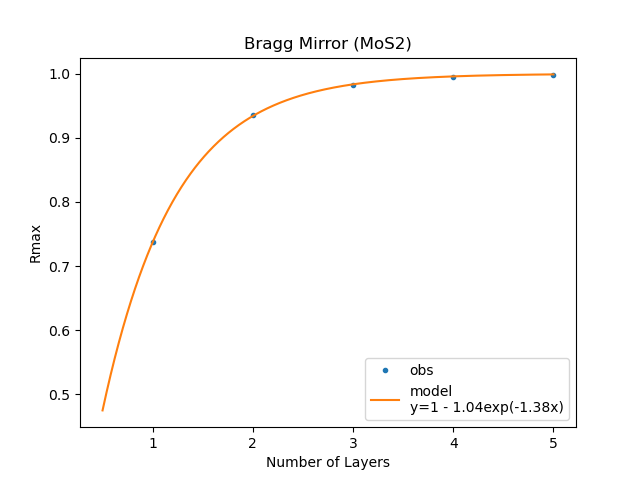
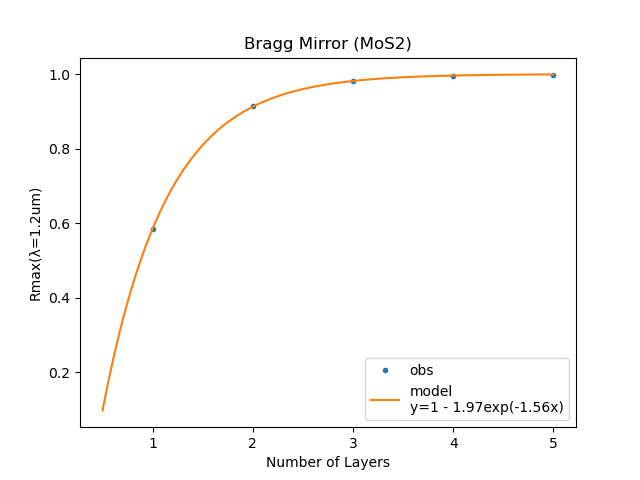
fitting修正、コード整理

diff --git a/CylindricalShell/MoS2/Analyze_CylindricalShell_5Layer_MoS2_exp.py b/CylindricalShell/MoS2/Analyze_CylindricalShell_5Layer_MoS2_exp.py
@@ -16,32 +16,26 @@ D1 = np.loadtxt("CylindricalShell_5Layer_MoS2_radius0.5um.txt", delimiter=",", s
 lam = D1[:,0] * 1e9 #wavelength[nm]
 T1 = D1[:, 1]
 R1 = -T1
-Rm1 = np.max(R1)
 
 rad2 = 1.0
 D2 = np.loadtxt("CylindricalShell_5Layer_MoS2_radius1.0um.txt", delimiter=",", skiprows=3)
 T2 = D2[:, 1]
 R2 = -T2
-Rm2 = np.max(R2)
 
 rad3 = 1.5
 D3 = np.loadtxt("CylindricalShell_5Layer_MoS2_radius1.5um.txt", delimiter=",", skiprows=3)
 T3 = D3[:, 1]
 R3 = -T3
-Rm3 = np.max(R3)
 
 rad4 = 2.0
 D4 = np.loadtxt("CylindricalShell_5Layer_MoS2_radius2.0um.txt", delimiter=",", skiprows=3)
 T4 = D4[:, 1]
 R4 = -T4
-Rm4 = np.max(R4)
 
 rad5 = 2.5
 D5 = np.loadtxt("CylindricalShell_5Layer_MoS2_radius2.5um.txt", delimiter=",", skiprows=3)
 T5 = D5[:, 1]
 R5 = -T5
-Rm5 = np.max(R5)
-
 
 pl.figure(1)
 pl.plot(lam, R1, label = "o.5um")
@@ -54,64 +48,26 @@ pl.ylabel("R")
 pl.title("Cylindrical Shell (MoS2)")
 pl.legend()
 
-#Rm
-rad6 = 0.5  #Core radius[um]
-D6 = np.loadtxt("CylindricalShell_5Layer_MoS2_radius0.5um.txt", delimiter=",", skiprows=3, max_rows=13)
-lam = D6[:,0] * 1e9 #wavelength[nm]
-T6 = D6[:, 1]
-R6 = -T6
-Rm6 = np.max(R6)
+#Rm(1.2um)
+rad = [rad1, rad2, rad3, rad4, rad5]
 
-rad7 = 1.0
-D7 = np.loadtxt("CylindricalShell_5Layer_MoS2_radius1.0um.txt", delimiter=",", skiprows=3, max_rows=13)
-T7 = D7[:, 1]
-R7 = -T7
-Rm7 = np.max(R7)
+Rm1 = -D1[6, 1]
+Rm2 = -D2[6, 1]
+Rm3 = -D3[6, 1]
+Rm4 = -D4[6, 1]
+Rm5 = -D5[6, 1]
 
-rad8 = 1.5
-D8 = np.loadtxt("CylindricalShell_5Layer_MoS2_radius1.5um.txt", delimiter=",", skiprows=3, max_rows=13)
-T8 = D8[:, 1]
-R8 = -T8
-Rm8 = np.max(R8)
-
-rad9 = 2.0
-D9 = np.loadtxt("CylindricalShell_5Layer_MoS2_radius2.0um.txt", delimiter=",", skiprows=3, max_rows=13)
-T9 = D9[:, 1]
-R9 = -T9
-Rm9 = np.max(R9)
-
-rad10 = 2.5
-D10 = np.loadtxt("CylindricalShell_5Layer_MoS2_radius2.5um.txt", delimiter=",", skiprows=3, max_rows=13)
-T10 = D10[:, 1]
-R10 = -T10
-Rm10 = np.max(R10)
-
-rad = [rad6, rad7, rad8, rad9, rad10]
-Rm = [Rm6, Rm7, Rm8, Rm9, Rm10]
-
-print("rad")
-print(rad)
-print("Rm")
-print(Rm)
-
-lam6 = 1.1e-6
-lam7 = 1.21e-6
-lam8 = 1.068e-6
-lam9 = 1.1e-6
-lam10 = 1.068e-6
-
-lamave = np.average([lam6, lam7, lam8, lam9, lam10])
-print(lamave)
+Rm = [Rm1, Rm2, Rm3, Rm4, Rm5]
 
 pl.figure(2)
 pl.plot(rad, Rm)
 pl.xlabel("Core Radius[um]")
-pl.ylabel("Rmax")
+pl.ylabel("Rmax(λ=1.2um)")
 pl.title("Cylindrical Shell (MoS2)")
 
 #Fitting(y = 1 - b*exp(ax^2))
 x = rad
-y = [0.672686, 0.777968, 0.847565, 0.905622, 0.918206]
+y = Rm
 
 def nonlinear_fit(x, a, b):
     return  0.92 - b * np.exp(a * x**2)
@@ -120,22 +76,19 @@ popt, cov = curve_fit(nonlinear_fit, x, y)
 
 list_y = []
 for num in x:
-    list_y.append(0.9 - popt[1] * np.exp(popt[0] * num**2))
-
-pl.figure(3)
-pl.plot(x, y, label = "obs", linestyle = "", marker = ".")
-#pl.plot(x, np.array(list_y), label = "fitting")
-pl.xlabel("Core Radius[um]")
-pl.ylabel("Rmax")
-pl.title("Cylindrical Shell (MoS2, 1.2um)")
-pl.legend()
+    list_y.append(0.92 - popt[1] * np.exp(popt[0] * num**2))
 
 print('a : {},   b : {}'.format(popt[0], popt[1]))
 
-#Smoother curve
 pl.figure(3)
+pl.figure(3)
+pl.plot(x, y, label = "obs", linestyle = "", marker = ".")
+#pl.plot(x, np.array(list_y), label = "fitting")
 x2 = np.linspace(0.50, 2.50, 1000)
 y2 = 0.92 - popt[1] * np.exp(popt[0] * x2**2)
-pl.plot(x2, y2, label = "model\ny = 0.9 - 0.29exp(-0.67x^2)")
+pl.plot(x2, y2, label = "model\ny = 0.92 - 0.29exp(-0.79x^2)")
 pl.legend()
+pl.xlabel("Core Radius[um]")
+pl.ylabel("Rmax(λ=1.2um)")
+pl.title("Cylindrical Shell (MoS2)")
 pl.show()

diff --git a/BraggMirror/MoS2/Analyze_BraggMirror_MoS2.py b/BraggMirror/MoS2/Analyze_BraggMirror_MoS2.py
@@ -16,32 +16,26 @@ D1 = np.loadtxt("1LayersBraggMirror_MoS2_0.3-1.5um.txt", delimiter=",", skiprows
 lam = D1[:,0] * 1e9 #wavelength[nm]
 T1 = D1[:, 1]
 R1 = -T1
-Rm1 = np.max(R1)
 
 N2 = 2
 D2 = np.loadtxt("2LayersBraggMirror_MoS2_0.3-1.5um.txt", delimiter=",", skiprows=3)
 T2 = D2[:, 1]
 R2 = -T2
-Rm2 = np.max(R2)
 
 N3 = 3
 D3 = np.loadtxt("3LayersBraggMirror_MoS2_0.3-1.5um.txt", delimiter=",", skiprows=3)
 T3 = D3[:, 1]
 R3 = -T3
-Rm3 = np.max(R3)
 
 N4 = 4
 D4 = np.loadtxt("4LayersBraggMirror_MoS2_0.3-1.5um.txt", delimiter=",", skiprows=3)
 T4 = D4[:, 1]
 R4 = -T4
-Rm4 = np.max(R4)
 
 N5 = 5
 D5 = np.loadtxt("5LayersBraggMirror_MoS2_0.3-1.5um.txt", delimiter=",", skiprows=3)
 T5 = D5[:, 1]
 R5 = -T5
-Rm5 = np.max(R5)
-
 
 pl.figure(1)
 pl.plot(lam, R1, label = "N=1")
@@ -55,48 +49,22 @@ pl.title("Bragg Mirror (MoS2)")
 pl.legend()
 
 #Rmax
-N6 = 1  #Number of Layers
-D6 = np.loadtxt("1LayersBraggMirror_MoS2_1-1.5um.txt", delimiter=",", skiprows=3)
-lam = D6[:,0] * 1e9 #wavelength[nm]
-T6 = D6[:, 1]
-R6 = -T6
-Rm6 = np.max(R6)
+N = [N1, N2, N3, N4, N5]
 
-N7 = 2
-D7 = np.loadtxt("2LayersBraggMirror_MoS2_1-1.5um.txt", delimiter=",", skiprows=3)
-T7 = D7[:, 1]
-R7 = -T7
-Rm7 = np.max(R7)
+Rm1 = -D1[6, 1]
+Rm2 = -D2[6, 1]
+Rm3 = -D3[6, 1]
+Rm4 = -D4[6, 1]
+Rm5 = -D5[6, 1]
 
-N8 = 3
-D8 = np.loadtxt("3LayersBraggMirror_MoS2_1-1.5um.txt", delimiter=",", skiprows=3)
-T8 = D8[:, 1]
-R8 = -T8
-Rm8 = np.max(R8)
-
-N9 = 4
-D9 = np.loadtxt("4LayersBraggMirror_MoS2_1-1.5um.txt", delimiter=",", skiprows=3)
-T9 = D9[:, 1]
-R9 = -T9
-Rm9 = np.max(R9)
-
-N10 = 5
-D10 = np.loadtxt("5LayersBraggMirror_MoS2_1-1.5um.txt", delimiter=",", skiprows=3)
-T10 = D10[:, 1]
-R10 = -T10
-Rm10 = np.max(R10)
-
-N = [N6, N7, N8, N9, N10]
-Rm = [Rm6, Rm7, Rm8, Rm9, Rm10]
+Rm = [Rm1, Rm2, Rm3, Rm4, Rm5]
 
 pl.figure(2)
 pl.plot(N, Rm)
 pl.xticks([1, 2, 3, 4, 5])
 pl.xlabel("Number of Layers")
-pl.ylabel("Rmax")
+pl.ylabel("Rmax(λ=1.2um)")
 pl.title("Bragg Mirror (MoS2)")
-
-
 
 #Fitting(y = 1 - b*exp(ax))
 x = N
@@ -105,20 +73,18 @@ y = Rm
 def nonlinear_fit(x, a, b):
     return  1 - b * np.exp(a * x)
 
-c = [1, 0.770567]
-
+c = [N1, Rm1]
 popt, cov = curve_fit(nonlinear_fit, x, y, c)
 
 print('a : {},   b : {}'.format(popt[0], popt[1]))
 
-#Smoother curves
 pl.figure(3)
 pl.plot(N, Rm, label = "obs", linestyle = "", marker = ".")
 x2 = np.linspace(0.50, 5, 1000)
 y2 = 1 - popt[1] * np.exp(popt[0] * x2)
-pl.plot(x2, y2, label = "model\ny=1 - 1.04exp(-1.38x)")
+pl.plot(x2, y2, label = "model\ny=1 - 1.97exp(-1.56x)")
 pl.xlabel("Number of Layers")
-pl.ylabel("Rmax")
+pl.ylabel("Rmax(λ=1.2um)")
 pl.title("Bragg Mirror (MoS2)")
 pl.legend()
 pl.show()

diff --git a/CylindricalShell/MoS2/test.py b/CylindricalShell/MoS2/test.py
@@ -1,0 +1,21 @@
+# -*- coding: utf-8 -*-
+"""
+Created on Sun Feb 19 14:58:16 2023
+
+@author: 81809
+"""
+
+import numpy as np
+
+rad6 = 0.5  #Core radius[um]
+D6 = np.loadtxt("CylindricalShell_5Layer_MoS2_radius0.5um.txt", delimiter=",", skiprows=3, max_rows=13)
+lam = D6[:,0] * 1e9 #wavelength[nm]
+T6 = D6[:, 1]
+R6 = -T6
+Rm6 = np.max(R6)
+
+lam6 = D6[6, 0]
+R6a = -D6[6, 1]
+
+print(lam6)
+print(R6a)
